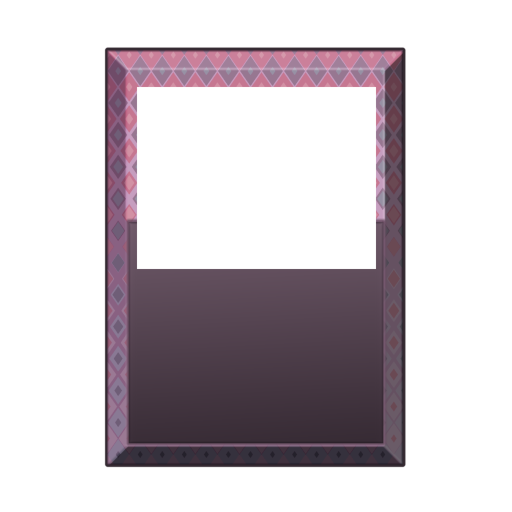
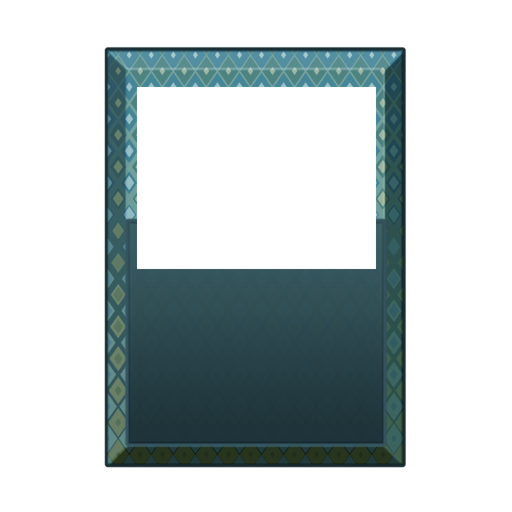
- Reworked card BG - Core sets can no longer be disabled - Fixed base stat editor

diff --git a/src/main/java/pinacolada/effects/card/PCLViewLoadoutPoolEffect.java b/src/main/java/pinacolada/effects/card/PCLViewLoadoutPoolEffect.java
@@ -29,7 +29,7 @@ import java.util.ArrayList;
 import static pinacolada.utilities.GameUtilities.scale;
 import static pinacolada.utilities.GameUtilities.screenW;
 
-public class ShowCardPileEffect extends PCLEffectWithCallback<CardGroup>
+public class PCLViewLoadoutPoolEffect extends PCLEffectWithCallback<CardGroup>
 {
     private static final float DUR = 1.5f;
     private CardGroup cards;
@@ -39,16 +39,17 @@ public class ShowCardPileEffect extends PCLEffectWithCallback<CardGroup>
     private EUILabel selectedCount;
     private EUIToggle upgradeToggle;
     private boolean draggingScreen;
+    private boolean canToggle = true;
     private boolean showTopPanelOnComplete;
     private final Color screenColor;
     private final PCLSeriesSelectScreen screen;
 
-    public ShowCardPileEffect(PCLSeriesSelectScreen screen, ArrayList<AbstractCard> cards)
+    public PCLViewLoadoutPoolEffect(PCLSeriesSelectScreen screen, ArrayList<AbstractCard> cards)
     {
         this(screen, GameUtilities.createCardGroup(cards));
     }
 
-    public ShowCardPileEffect(PCLSeriesSelectScreen screen, CardGroup cards)
+    public PCLViewLoadoutPoolEffect(PCLSeriesSelectScreen screen, CardGroup cards)
     {
         super(0.7f);
 
@@ -125,11 +126,14 @@ public class ShowCardPileEffect extends PCLEffectWithCallback<CardGroup>
 
     private void toggleCard(AbstractCard c)
     {
-        toggleCard(c, screen.container.bannedCards.contains(c.cardID));
-        refreshCountText();
+        if (canToggle)
+        {
+            toggleCardImpl(c, screen.container.bannedCards.contains(c.cardID));
+            refreshCountText();
+        }
     }
 
-    private void toggleCard(AbstractCard c, boolean value)
+    private void toggleCardImpl(AbstractCard c, boolean value)
     {
         if (value)
         {
@@ -145,7 +149,7 @@ public class ShowCardPileEffect extends PCLEffectWithCallback<CardGroup>
     {
         for (AbstractCard c : cards.group)
         {
-            toggleCard(c, value);
+            toggleCardImpl(c, value);
         }
         refreshCountText();
     }
@@ -170,7 +174,7 @@ public class ShowCardPileEffect extends PCLEffectWithCallback<CardGroup>
                 .addCards(cards.group);
     }
 
-    public ShowCardPileEffect setStartingPosition(float x, float y)
+    public PCLViewLoadoutPoolEffect setStartingPosition(float x, float y)
     {
         for (AbstractCard c : cards.group)
         {
@@ -181,6 +185,15 @@ public class ShowCardPileEffect extends PCLEffectWithCallback<CardGroup>
         return this;
     }
 
+    public PCLViewLoadoutPoolEffect setCanToggle(boolean canToggle)
+    {
+        this.canToggle = canToggle;
+        selectAllButton.setActive(canToggle);
+        deselectAllButton.setActive(canToggle);
+        selectedCount.setActive(canToggle);
+        return this;
+    }
+
     @Override
     public void render(SpriteBatch sb)
     {
@@ -188,9 +201,9 @@ public class ShowCardPileEffect extends PCLEffectWithCallback<CardGroup>
         sb.draw(ImageMaster.WHITE_SQUARE_IMG, 0f, 0f, (float) Settings.WIDTH, (float) Settings.HEIGHT);
         grid.tryRender(sb);
         upgradeToggle.renderImpl(sb);
-        selectAllButton.renderImpl(sb);
-        deselectAllButton.renderImpl(sb);
-        selectedCount.renderImpl(sb);
+        selectAllButton.tryRender(sb);
+        deselectAllButton.tryRender(sb);
+        selectedCount.tryRender(sb);
     }
 
     @Override
@@ -198,9 +211,9 @@ public class ShowCardPileEffect extends PCLEffectWithCallback<CardGroup>
     {
         grid.tryUpdate();
         upgradeToggle.updateImpl();
-        selectAllButton.updateImpl();
-        deselectAllButton.updateImpl();
-        selectedCount.updateImpl();
+        selectAllButton.tryUpdate();
+        deselectAllButton.tryUpdate();
+        selectedCount.tryUpdate();
 
         if (upgradeToggle.hb.hovered || selectAllButton.hb.hovered || deselectAllButton.hb.hovered || grid.hoveredCard != null)
         {

diff --git a/src/main/java/pinacolada/resources/loadout/PCLLoadout.java b/src/main/java/pinacolada/resources/loadout/PCLLoadout.java
@@ -35,6 +35,7 @@ import static pinacolada.ui.characterSelection.PCLLoadoutEditor.MAX_RELIC_SLOTS;
 // TODO rework
 public abstract class PCLLoadout
 {
+    public static final AbstractCard.CardType UNSELECTABLE_TYPE = AbstractCard.CardType.CURSE;
     public static final int MAX_PRESETS = 5;
     public static final int MAX_VALUE = 40;
     public static final int MIN_CARDS = 10;
@@ -111,7 +112,7 @@ public abstract class PCLLoadout
                 return info.gold;
             }
         }
-        return PCLAbstractPlayerData.DEFAULT_HP;
+        return PCLAbstractPlayerData.DEFAULT_GOLD;
     }
 
     public static int getBaseHP(AbstractCard.CardColor color)
@@ -270,22 +271,22 @@ public abstract class PCLLoadout
 
     public int getDraw()
     {
-        return getBaseDraw(color) + PCLBaseStatEditor.StatType.CardDraw.getAmount(this, getPreset());
+        return PCLBaseStatEditor.StatType.CardDraw.getAmount(this, getPreset());
     }
 
     public int getEnergy()
     {
-        return getBaseEnergy(color) + PCLBaseStatEditor.StatType.Energy.getAmount(this, getPreset());
+        return PCLBaseStatEditor.StatType.Energy.getAmount(this, getPreset());
     }
 
     public int getGold()
     {
-        return getBaseGold(color) + PCLBaseStatEditor.StatType.Gold.getAmount(this, getPreset());
+        return PCLBaseStatEditor.StatType.Gold.getAmount(this, getPreset());
     }
 
     public int getHP()
     {
-        return getBaseHP(color) + PCLBaseStatEditor.StatType.HP.getAmount(this, getPreset());
+        return PCLBaseStatEditor.StatType.HP.getAmount(this, getPreset());
     }
 
     public CharSelectInfo getLoadout(String name, String description, PCLCharacter c)
@@ -543,8 +544,18 @@ public abstract class PCLLoadout
         else
         {
             card.addUseMove(new FakeSkill());
-            card.rarity = isCore() ? AbstractCard.CardRarity.CURSE : AbstractCard.CardRarity.COMMON;
-            card.type = isCore() ? AbstractCard.CardType.CURSE : AbstractCard.CardType.SKILL;
+            if (isCore())
+            {
+                card.color = AbstractCard.CardColor.COLORLESS;
+                card.rarity = AbstractCard.CardRarity.CURSE;
+                card.type = UNSELECTABLE_TYPE;
+            }
+            else
+            {
+                card.color = data.cardColor;
+                card.rarity = AbstractCard.CardRarity.COMMON;
+                card.type = AbstractCard.CardType.SKILL;
+            }
         }
 
         if (!isCore())

diff --git a/src/main/java/pinacolada/ui/characterSelection/PCLLoadoutsContainer.java b/src/main/java/pinacolada/ui/characterSelection/PCLLoadoutsContainer.java
@@ -17,10 +17,10 @@ import java.util.stream.Collectors;
 // Copied and modified from STS-AnimatorMod
 public class PCLLoadoutsContainer
 {
-    public static final int MINIMUM_CARDS = 3; // 75
-    public static final int MINIMUM_COMMON = 3;  // 30
-    public static final int MINIMUM_UNCOMMON = 3;  // 25
-    public static final int MINIMUM_RARE = 3;  // 8
+    public static final int MINIMUM_CARDS = 75; // 75
+    public static final int MINIMUM_COMMON = 25;  // 30
+    public static final int MINIMUM_UNCOMMON = 20;  // 25
+    public static final int MINIMUM_RARE = 7;  // 8
     public static final int CHANCE_COMMON = 50;
     public static final int CHANCE_UNCOMMON = 40;
     public static final int CHANCE_RARE = 10;
@@ -82,6 +82,9 @@ public class PCLLoadoutsContainer
                 {
                     allCards.add(card);
                 }
+
+                // Ensure that banned cards are not banned
+                bannedCards.remove(cData.ID);
             }
         }
         calculateCardCounts();
@@ -117,9 +120,10 @@ public class PCLLoadoutsContainer
         return cardIds;
     }
 
+    // You cannot select core loadout cards
     public boolean selectCard(PCLCard card)
     {
-        if (loadoutMap.containsKey(card) && card.type != AbstractCard.CardType.CURSE)
+        if (loadoutMap.containsKey(card) && card.type != PCLLoadout.UNSELECTABLE_TYPE)
         {
             currentSeriesCard = card;
             for (AbstractCard c : loadoutMap.keySet())
@@ -164,10 +168,12 @@ public class PCLLoadoutsContainer
 
         for (Map.Entry<PCLCard, PCLLoadout> entry : loadoutMap.entrySet())
         {
+            int selectedAmount = 0;
             for (PCLCardData data : entry.getValue().cardData)
             {
                 if (!bannedCards.contains(data.ID))
                 {
+                    selectedAmount += 1;
                     totalCardsInPool += 1;
                     rarityCount.merge(data.cardRarity, 1, Integer::sum);
                 }
@@ -175,7 +181,7 @@ public class PCLLoadoutsContainer
 
             for (PSkill<?> s : entry.getKey().getFullEffects())
             {
-                s.setAmount(bannedCards.size());
+                s.setAmount(selectedAmount);
             }
         }
 

diff --git a/src/main/java/pinacolada/ui/characterSelection/PCLSeriesSelectScreen.java b/src/main/java/pinacolada/ui/characterSelection/PCLSeriesSelectScreen.java
@@ -24,7 +24,7 @@ import extendedui.utilities.EUIFontHelper;
 import pinacolada.cards.base.PCLCard;
 import pinacolada.cards.base.PCLCardData;
 import pinacolada.effects.PCLEffects;
-import pinacolada.effects.card.ShowCardPileEffect;
+import pinacolada.effects.card.PCLViewLoadoutPoolEffect;
 import pinacolada.resources.PCLAbstractPlayerData;
 import pinacolada.resources.PGR;
 import pinacolada.resources.loadout.PCLLoadout;
@@ -50,7 +50,7 @@ public class PCLSeriesSelectScreen extends AbstractScreen
     public boolean isScreenDisabled;
     protected PCLCard selectedCard;
     protected ActionT0 onClose;
-    protected ShowCardPileEffect previewCardsEffect;
+    protected PCLViewLoadoutPoolEffect previewCardsEffect;
     protected CharacterOption characterOption;
     protected PCLAbstractPlayerData data;
     protected int totalCardsCache = 0;
@@ -186,12 +186,14 @@ public class PCLSeriesSelectScreen extends AbstractScreen
         }
     }
 
+    // Since core sets cannot be toggled, only show the view card option for them
     public void onCardRightClicked(AbstractCard card)
     {
         selectedCard = EUIUtils.safeCast(card, PCLCard.class);
         PCLLoadout c = container.find(selectedCard);
 
         contextMenu.setPosition(InputHelper.mX, InputHelper.mY);
+        contextMenu.setItems(card.type == PCLLoadout.UNSELECTABLE_TYPE ? EUIUtils.array(ContextOption.ViewCards) : ContextOption.values());
         contextMenu.openOrCloseMenu();
     }
 
@@ -238,9 +240,11 @@ public class PCLSeriesSelectScreen extends AbstractScreen
         }
     }
 
+    // Core loadout cards cannot be toggled off
     public void previewCards(CardGroup cards, PCLLoadout loadout)
     {
-        previewCardsEffect = new ShowCardPileEffect(this, cards)
+        previewCardsEffect = new PCLViewLoadoutPoolEffect(this, cards)
+                .setCanToggle(loadout != null && !loadout.isCore())
                 .setStartingPosition(InputHelper.mX, InputHelper.mY);
         PCLEffects.Manual.add(previewCardsEffect);
     }

diff --git a/src/main/java/pinacolada/ui/characterSelection/PCLBaseStatEditor.java b/src/main/java/pinacolada/ui/characterSelection/PCLBaseStatEditor.java
@@ -73,7 +73,7 @@ public class PCLBaseStatEditor extends EUIBase
                 })
                 .setCanAutosizeButton(false)
                 .setLabelFunctionForOption(
-                        value -> this.type.getAmount(value) + " (" + value + ")", false
+                        value -> this.type.getAmountForValue(value) + " (" + value + ")", false
                 )
                 .setLabelFunctionForButton(
                         (value, __) -> {
@@ -192,10 +192,10 @@ public class PCLBaseStatEditor extends EUIBase
 
         public int getAmount(PCLLoadout loadout, PCLLoadoutData data)
         {
-            return getAmount(getBase(loadout) + (data != null ? data.values.getOrDefault(this, 0) : 0));
+            return getBase(loadout) + getAmountForValue(data != null ? data.values.getOrDefault(this, 0) : 0);
         }
 
-        public int getAmount(int value)
+        public int getAmountForValue(int value)
         {
             return (amountPerStep * value) / valuePerStep;
         }
